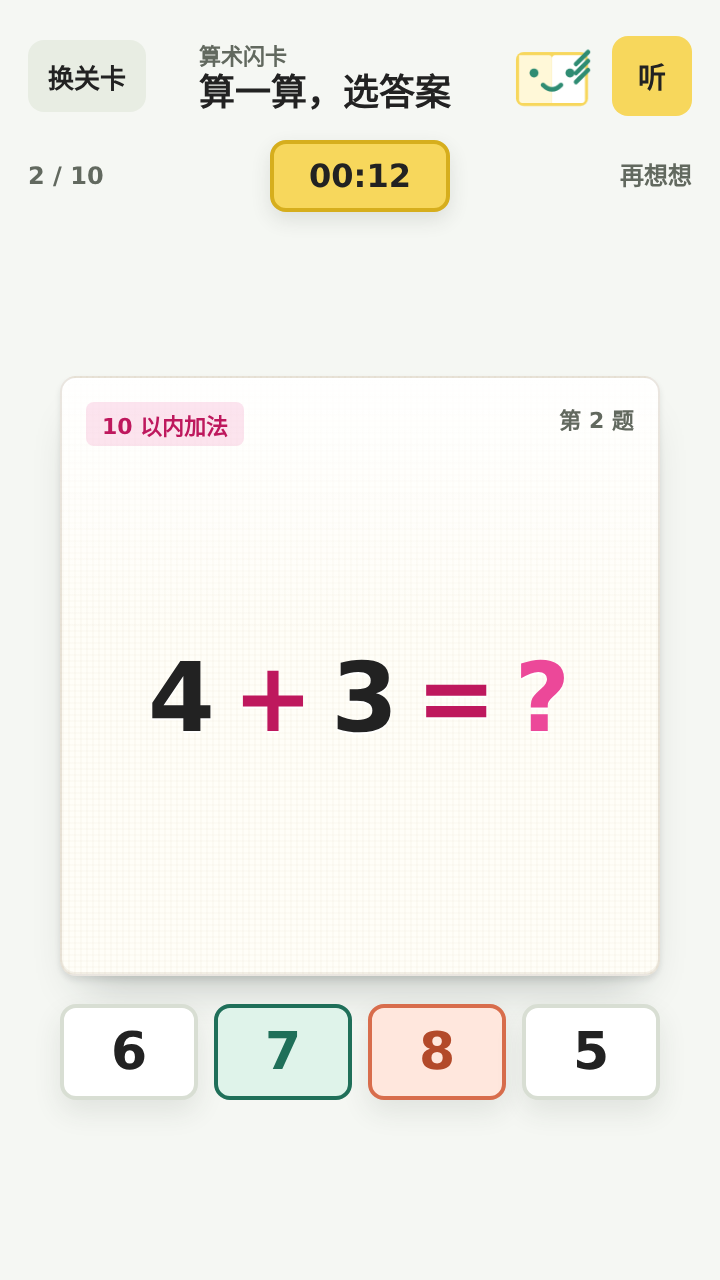
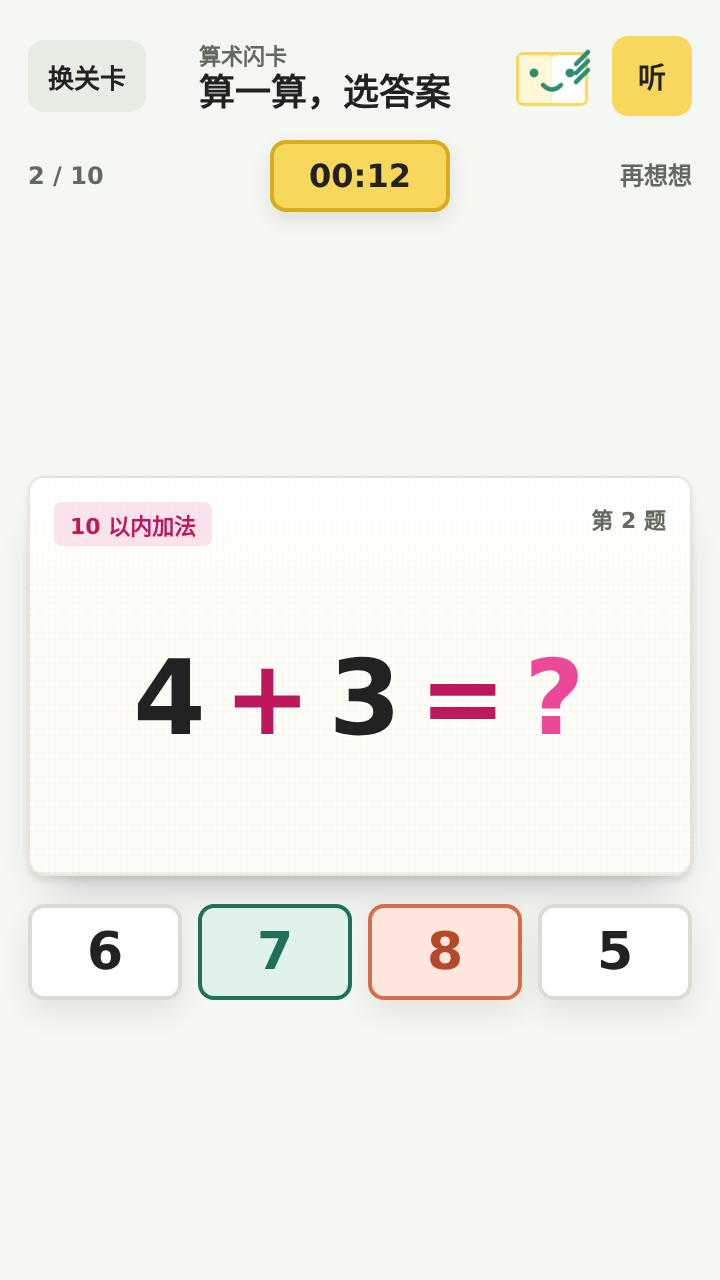
fix(math-flash): 卡片摆正不倾斜（去掉 -2° 摆放倾角，形状保持 332×200）

diff --git a/docs/mockups/phase-9/screens/card-compare.html b/docs/mockups/phase-9/screens/card-compare.html
@@ -52,7 +52,7 @@
   /* ---- 新版：纸卡 ---- */
   .new-slot { perspective: 1100px; }
   .new-card {
-    width: 200px; height: 200px;
+    width: 250px; height: 151px;
     position: relative;
     transform-style: preserve-3d;
   }
@@ -116,7 +116,7 @@
 </head>
 <body data-game="mathFlash">
   <h1>算式卡改版 · 旧 vs 新</h1>
-  <p class="sub">形状保持 300×300 正方形（2026-11-01 定稿：摆正、不旋转）；改动集中在材质 —— 暖白纸底 + 双向纤维纹理 + 上沿高光 / 下沿厚度、分层投影（纸片浮在桌面上），并新增正反双面翻卡动效。</p>
+  <p class="sub">旧版 300×300 正方形方框 → 新版 332×200 名片比例纸卡（比例 1.66，贴 90×54mm 标准名片），带纸纹 / 分层投影，并新增翻卡动效。卡片<b>摆正不倾斜</b>（2026-11-01 定稿）。</p>
   <div class="cols">
     <div class="col">
       <div class="col-head">旧版 · 正方形方框</div>
@@ -140,8 +140,8 @@
     </div>
 
     <div class="col">
-      <div class="col-head">新版 · 正方形纸卡</div>
-      <div class="col-sub">300 × 300，纸纹 + 分层投影，摆正不倾斜，正反双面可翻</div>
+      <div class="col-head">新版 · 纸质名片卡</div>
+      <div class="col-sub">332 × 200，纸纹 + 分层投影，摆正不倾斜，正反双面可翻</div>
       <div class="stagebox new">
         <div class="new-slot">
           <div class="new-card is-front"><div class="inner">
@@ -176,10 +176,10 @@
       </div>
       <div class="new-notes">
         <b>改动</b><br>
-        · 形状仍为 <b>1 : 1</b> 正方形，<b>摆正不旋转</b>（不做倾斜摆放）<br>
+        · 比例 1 : 1 → <b>1.66 : 1</b>（标准名片比例），横向更像"一张拿在手里的卡"<br>
         · 暖白纸底 + 双向纤维纹理 + 上沿高光 / 下沿厚度<br>
         · 分层投影：接触影 + 环境影 → 纸片浮在桌面上<br>
-        · 分层投影制造"纸片浮在桌面"的层次感（不靠倾斜制造立体感）<br>
+        · <b>摆正不倾斜</b>，不靠摆放倾角制造手感<br>
         · 双面结构，绕 Y 轴 <b>480ms</b> 翻转完成翻页<br>
         · 角标（关卡名 / 第 N 题）+ 底部倒计时条
       </div>

diff --git a/current/styles.css b/current/styles.css
@@ -3525,24 +3525,24 @@ body[data-game="traceTian"] {
 
 /* ============================================================================
  * Phase 9 — 算术闪卡 mathFlash（feat/math-flash）
- * 正方形纸卡（300×300，与框架 zone-primary 一致）+ 翻卡动效
+ * 纸质名片卡（332×200，比例 1.66，贴 90×54mm 标准名片）+ 翻卡动效
  * ============================================================================ */
 
-/* ===== 题目卡：正方形纸卡 ===== */
+/* ===== 题目卡：纸质名片 ===== */
 .math-host {
-  /* 正方形卡片：沿用框架默认 300×300 主区尺寸 */
-  --primary-size: 300px;
-  --secondary-w: 300px;
+  /* 占满内容宽（332px），比 300px 更像"一张拿在手里的卡" */
+  --primary-size: 332px;
+  --secondary-w: 332px;
   /* 卡片 + 选项作为一组在 zone 内居中，避免上下留白失衡 */
   justify-content: center;
   gap: 14px;
 }
 
-/* 翻页容器：同一时刻叠两张卡（旧卡翻走 + 新卡推入）
- * 卡片为正方形：沿用 .zone-primary 框架的 aspect-ratio:1，不再覆盖 */
+/* 翻页容器：同一时刻叠两张卡（旧卡翻走 + 新卡推入） */
 .math-flip-pair {
   position: relative;
   width: min(100%, var(--primary-size));
+  aspect-ratio: 332 / 200;  /* 覆盖 .zone-primary 的 aspect-ratio:1 */
   display: block;           /* 覆盖 .zone-primary 的 display:grid */
   flex-shrink: 0;
 }
@@ -3586,7 +3586,7 @@ body[data-game="traceTian"] {
   overflow: hidden;
 }
 
-/* 正面：摆正，不做倾斜 */
+/* 正面：摆正，不做倾斜（2026-11-01 定稿） */
 .math-card__face--front {
   transform: none;
 }
@@ -3647,8 +3647,7 @@ body[data-game="traceTian"] {
   align-items: center;
   justify-content: center;
   white-space: nowrap;
-  /* 48px：正方形卡片内最宽合法算式（10+10=?）左右仍留 10px 以上余量 */
-  font-size: 48px;
+  font-size: 52px;
   font-weight: var(--fw-black);
   line-height: 1;
   color: var(--ink);

diff --git a/docs/mockups/phase-9/styles.css b/docs/mockups/phase-9/styles.css
@@ -3525,24 +3525,24 @@ body[data-game="traceTian"] {
 
 /* ============================================================================
  * Phase 9 — 算术闪卡 mathFlash（feat/math-flash）
- * 正方形纸卡（300×300，与框架 zone-primary 一致）+ 翻卡动效
+ * 纸质名片卡（332×200，比例 1.66，贴 90×54mm 标准名片）+ 翻卡动效
  * ============================================================================ */
 
-/* ===== 题目卡：正方形纸卡 ===== */
+/* ===== 题目卡：纸质名片 ===== */
 .math-host {
-  /* 正方形卡片：沿用框架默认 300×300 主区尺寸 */
-  --primary-size: 300px;
-  --secondary-w: 300px;
+  /* 占满内容宽（332px），比 300px 更像"一张拿在手里的卡" */
+  --primary-size: 332px;
+  --secondary-w: 332px;
   /* 卡片 + 选项作为一组在 zone 内居中，避免上下留白失衡 */
   justify-content: center;
   gap: 14px;
 }
 
-/* 翻页容器：同一时刻叠两张卡（旧卡翻走 + 新卡推入）
- * 卡片为正方形：沿用 .zone-primary 框架的 aspect-ratio:1，不再覆盖 */
+/* 翻页容器：同一时刻叠两张卡（旧卡翻走 + 新卡推入） */
 .math-flip-pair {
   position: relative;
   width: min(100%, var(--primary-size));
+  aspect-ratio: 332 / 200;  /* 覆盖 .zone-primary 的 aspect-ratio:1 */
   display: block;           /* 覆盖 .zone-primary 的 display:grid */
   flex-shrink: 0;
 }
@@ -3586,7 +3586,7 @@ body[data-game="traceTian"] {
   overflow: hidden;
 }
 
-/* 正面：摆正，不做倾斜 */
+/* 正面：摆正，不做倾斜（2026-11-01 定稿） */
 .math-card__face--front {
   transform: none;
 }
@@ -3647,8 +3647,7 @@ body[data-game="traceTian"] {
   align-items: center;
   justify-content: center;
   white-space: nowrap;
-  /* 48px：正方形卡片内最宽合法算式（10+10=?）左右仍留 10px 以上余量 */
-  font-size: 48px;
+  font-size: 52px;
   font-weight: var(--fw-black);
   line-height: 1;
   color: var(--ink);

diff --git a/docs/mockups/phase-9/screens/flip-diagram.html b/docs/mockups/phase-9/screens/flip-diagram.html
@@ -37,8 +37,8 @@
   }
   .slot {
     position: relative;
-    width: 210px;
-    height: 210px;
+    width: 236px;
+    height: 142px;
     perspective: 900px;
     margin: 0 auto 14px;
   }
@@ -82,7 +82,7 @@
 </head>
 <body data-game="mathFlash">
   <h1 class="diagram-title">算术闪卡 · 翻卡动效分解</h1>
-  <p class="diagram-sub">正方形纸卡（300×300）绕 Y 轴翻转；翻页时旧卡翻走、下一题卡从背面转出，全程约 480ms。</p>
+  <p class="diagram-sub">纸质名片卡（332×200，比例 1.66）绕 Y 轴翻转；翻页时旧卡翻走、下一题卡从背面转出，全程约 480ms。</p>
   <div class="row"><div class="cell"><div class="slot is-a">
             <div class="math-card">
               <div class="math-card__inner">
@@ -100,7 +100,7 @@
                   <div class="math-card__watermark">6 + 7</div>
                 </div>
               </div>
-            </div></div><div class="cap">① 正面</div><div class="note">题目卡正面，正方形纸卡 300×300</div></div><div class="arrow">→</div><div class="cell"><div class="slot is-b">
+            </div></div><div class="cap">① 正面</div><div class="note">题目卡正面，纸质名片比例 332×200</div></div><div class="arrow">→</div><div class="cell"><div class="slot is-b">
             <div class="math-card">
               <div class="math-card__inner">
                 <div class="math-card__face math-card__face--front">

diff --git a/docs/mockups/phase-9/mockup.css b/docs/mockups/phase-9/mockup.css
@@ -65,13 +65,14 @@
  * ============================================================ */
 
 .math-host {
-  /* 正方形卡片：沿用框架默认 300×300 主区尺寸 */
-  --primary-size: 300px;
-  --secondary-w: 300px;
+  /* 名片比 300 宽会显得小，占满内容宽更接近"一张拿在手里的卡" */
+  --primary-size: 332px;
+  --secondary-w: 332px;
 }
 
 .math-card {
-  /* 覆盖 .zone-primary 的 display:grid；正方形沿用框架 aspect-ratio:1 */
+  /* 覆盖 .zone-primary 的 aspect-ratio:1 与 display:grid */
+  aspect-ratio: 332 / 200;
   display: block;
   perspective: 1400px;
   position: relative;
@@ -110,7 +111,7 @@
   overflow: hidden;
 }
 
-/* 正面：摆正，不做倾斜 */
+/* 正面：摆正，不做倾斜（2026-11-01 定稿） */
 .math-card__face--front {
   transform: none;
 }
@@ -171,7 +172,7 @@
   align-items: center;
   justify-content: center;
   white-space: nowrap;
-  font-size: 48px;
+  font-size: 52px;
   font-weight: var(--fw-black);
   line-height: 1;
   color: var(--ink);
@@ -363,7 +364,8 @@
 /* ===== 翻卡动画：两张卡叠在同一位置（一出 一进）===== */
 .math-flip-pair {
   position: relative;
-  width: min(100%, var(--primary-size));
+  width: min(100%, 332px);
+  aspect-ratio: 332 / 200;
   margin: 0 auto;
   perspective: 1400px;
 }

diff --git a/docs/mockups/phase-9/gen_card_compare.py b/docs/mockups/phase-9/gen_card_compare.py
@@ -1,9 +1,8 @@
 #!/usr/bin/env python3
 """Phase 9 — 算式卡「旧 vs 新」对比图
 
-左：旧版 300x300 正方形方框（无材质、静态）
-右：新版 300x300 正方形纸卡（正面 / 背面 / 翻起侧立）—— 形状不变，
-    改的是材质（纸纹 + 分层投影）、摆正不倾斜、以及新增翻卡动效
+左：旧版 300x300 正方形方框
+右：新版 332x200 纸质名片卡（正面 / 背面 / 翻起侧立）
 
 用法：
   python3 gen_card_compare.py
@@ -66,7 +65,7 @@ CSS = """
   /* ---- 新版：纸卡 ---- */
   .new-slot { perspective: 1100px; }
   .new-card {
-    width: 200px; height: 200px;
+    width: 250px; height: 151px;
     position: relative;
     transform-style: preserve-3d;
   }
@@ -139,7 +138,7 @@ HTML = """<!DOCTYPE html>
 </head>
 <body data-game="mathFlash">
   <h1>算式卡改版 · 旧 vs 新</h1>
-  <p class="sub">形状保持 300×300 正方形（2026-11-01 定稿：摆正、不旋转）；改动集中在材质 —— 暖白纸底 + 双向纤维纹理 + 上沿高光 / 下沿厚度、分层投影（纸片浮在桌面上），并新增正反双面翻卡动效。</p>
+  <p class="sub">旧版 300×300 正方形方框 → 新版 332×200 名片比例纸卡（比例 1.66，贴 90×54mm 标准名片），带纸纹 / 分层投影，并新增翻卡动效。卡片<b>摆正不倾斜</b>（2026-11-01 定稿）。</p>
   <div class="cols">
     <div class="col">
       <div class="col-head">旧版 · 正方形方框</div>
@@ -163,8 +162,8 @@ HTML = """<!DOCTYPE html>
     </div>
 
     <div class="col">
-      <div class="col-head">新版 · 正方形纸卡</div>
-      <div class="col-sub">300 × 300，纸纹 + 分层投影，摆正不倾斜，正反双面可翻</div>
+      <div class="col-head">新版 · 纸质名片卡</div>
+      <div class="col-sub">332 × 200，纸纹 + 分层投影，摆正不倾斜，正反双面可翻</div>
       <div class="stagebox new">
         <div class="new-slot">
           <div class="new-card is-front"><div class="inner">
@@ -199,10 +198,10 @@ HTML = """<!DOCTYPE html>
       </div>
       <div class="new-notes">
         <b>改动</b><br>
-        · 形状仍为 <b>1 : 1</b> 正方形，<b>摆正不旋转</b>（不做倾斜摆放）<br>
+        · 比例 1 : 1 → <b>1.66 : 1</b>（标准名片比例），横向更像"一张拿在手里的卡"<br>
         · 暖白纸底 + 双向纤维纹理 + 上沿高光 / 下沿厚度<br>
         · 分层投影：接触影 + 环境影 → 纸片浮在桌面上<br>
-        · 分层投影制造"纸片浮在桌面"的层次感（不靠倾斜制造立体感）<br>
+        · <b>摆正不倾斜</b>，不靠摆放倾角制造手感<br>
         · 双面结构，绕 Y 轴 <b>480ms</b> 翻转完成翻页<br>
         · 角标（关卡名 / 第 N 题）+ 底部倒计时条
       </div>

diff --git a/docs/mockups/phase-9/gen_flip_diagram.py b/docs/mockups/phase-9/gen_flip_diagram.py
@@ -20,7 +20,7 @@ CHROME = "/home/alpha/.cache/ms-playwright/chromium-1234/chrome-linux64/chrome"
 
 # 每帧：槽位 class + 卡片内容 + 标题
 FRAMES = [
-    ("is-a", "① 正面", "4 + 3 = ?", "题目卡正面，正方形纸卡 300×300"),
+    ("is-a", "① 正面", "4 + 3 = ?", "题目卡正面，纸质名片比例 332×200"),
     ("is-b", "② 翻起 30°", "4 + 3 = ?", "卡片绕 Y 轴抬起，纸面开始侧转"),
     ("is-c", "③ 翻起 65°", "4 + 3 = ?", "接近侧立，只剩窄条，透出纸卡折脊"),
     ("is-d", "④ 背面", "", "背面素纸，露出新题（下一题）"),
@@ -58,8 +58,8 @@ CSS = """
   }
   .slot {
     position: relative;
-    width: 210px;
-    height: 210px;
+    width: 236px;
+    height: 142px;
     perspective: 900px;
     margin: 0 auto 14px;
   }
@@ -153,7 +153,7 @@ def build():
 </head>
 <body data-game="mathFlash">
   <h1 class="diagram-title">算术闪卡 · 翻卡动效分解</h1>
-  <p class="diagram-sub">正方形纸卡（300×300）绕 Y 轴翻转；翻页时旧卡翻走、下一题卡从背面转出，全程约 480ms。</p>
+  <p class="diagram-sub">纸质名片卡（332×200，比例 1.66）绕 Y 轴翻转；翻页时旧卡翻走、下一题卡从背面转出，全程约 480ms。</p>
   <div class="row">%s</div>
 </body>
 </html>""" % (CSS, "".join(cells))

diff --git a/docs/phase-plans/phase-9-math-flash.md b/docs/phase-plans/phase-9-math-flash.md
@@ -414,9 +414,9 @@ function flipMathCard() {
 - [x] 每题 4 个选项，位置打乱，恰有 1 个正确
 - [x] 答对：绿 + 彩屑 + 语音 + 600ms 翻页
 - [x] 答错：红抖动 + **正确答案绿高亮闪动 3 次** → 再翻页（顺序不能反）
-- [x] 纸卡为正方形（300×300），有纸纹/投影，**摆正不倾斜**（2026-11-01 主人定稿）
-- [x] 算式字号 52px → 48px（正方形卡片内最宽合法算式 `10+10=?` 仍留 10px 以上余量）
-- [x] 线上实测：卡片 325×325 (ratio=1.000)、`transform: none`、最宽算式余量 10px
+- [x] 纸卡保持 332×200 名片比例，**摆正不倾斜**（2026-11-01 主人定稿：只去 −2° 摆放倾角，形状不变）
+- [x] 算式字号仍为 52px（332×200 卡片内最宽合法算式 `10+10=?` 左右仍余 17px）
+- [x] 线上实测：卡片 360×217 (ratio=1.66)、`transform: none`、最宽算式余量 17px
 - [x] 翻页动效：旧卡侧立翻走、新卡从背面转出，全程 480ms，不闪白不消失
 - [x] 星级按错题数：0→3★ / 1-3→2★ / 4-9→1★ / 10→0★
 - [x] 3 星时撒花，1-2 星不撒
@@ -512,16 +512,12 @@ function flipMathCard() {
 
 ---
 
-### ✅ 第 2 轮部署记录（2026-11-01 11:02，卡片正方形 + 摆正）
+### ✅ 第 2 轮部署记录（2026-11-01，片摆正不倾斜）
 
-- **改动**：仅 `current/styles.css`（其余 4 个文件未变）
-  - `.math-flip-pair` 去掉 `aspect-ratio: 332/200` → 沿用框架 `.zone-primary` 的 `aspect-ratio: 1`
-  - `.math-host` 的 `--primary-size` / `--secondary-w`：`332px` → `300px`
-  - `.math-card__face--front`：`rotate(-2deg)` → `none`；`.math-card__face--back`：去掉 `rotate(-2deg)`，保留 `rotateY(180deg)` 翻面
-  - `.math-eq` 字号 `52px` → `48px`（正方形卡片内最宽合法算式 `10+10=?` 左右仍留 10px）
-- **线上实测**（`https://sophie520.top/games/`）：卡片 325×325 ratio=1.000，`transform: none`，
-  最宽算式 `10+10=?` 字形 304px / 卡片 325px，左右各余 10px；翻卡后仍为正方形
-- **回归**：`mobile-one-screen-test.js` 打公网 → **Total: 462, Failed: 0**（math-flash 266×266 @320×568）
-- **回滚点**：
-  - `/var/www/games/current.bak-mathflash-square-20261101-110207`
-  - `/var/www/games/current.bak-mathflash-square-nested-20261101-110207`
+- **改动**：仅 `current/styles.css`，且只有两处 `transform`（形状/尺寸/字号/材质一律不变）
+  - `.math-card__face--front`：`rotate(-2deg)` → `none`
+  - `.math-card__face--back`：`rotateY(180deg) rotate(-2deg)` → `rotateY(180deg)`（只留翻面）
+  - 卡片仍是 **332×200 名片比例**，`--primary-size: 332px`，算式字号仍 **52px**
+- **线上实测**（`https://sophie520.top/games/`）：卡片 360×217 ratio=1.66，
+  正面 `transform: none`，最宽算式 `10+10=?` 字形 326px / 卡片 360px，左右各余 17px；翻卡后形状不变
+- **回归**：`mobile-one-screen-test.js` 打公网 → **Total: 462, Failed: 0**
